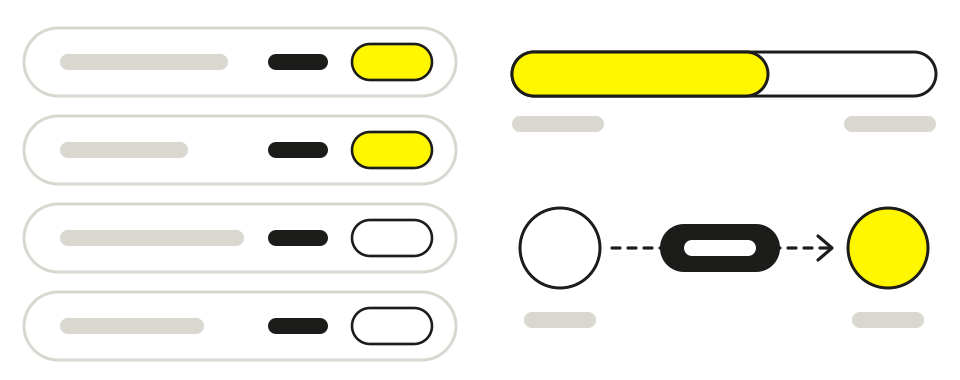
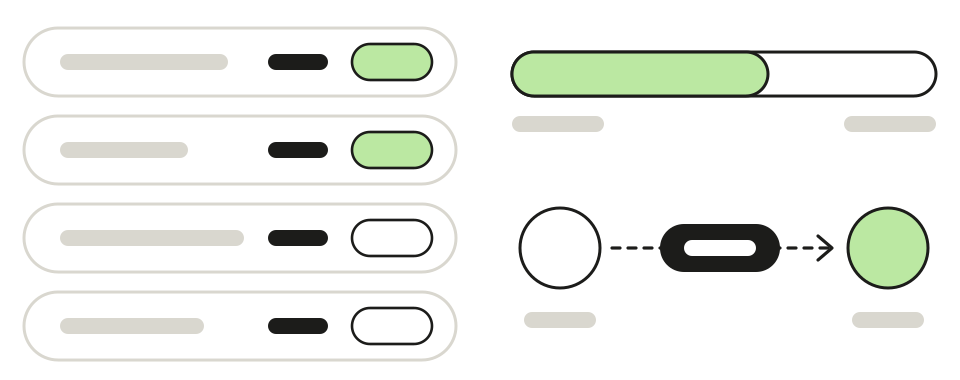
Mails : gabarit unique en pistache (carte d'en-tête commune, vert émeraude, icônes recolorées) (#391)

diff --git a/lib/server/mailTemplate.js b/lib/server/mailTemplate.js
@@ -1,7 +1,7 @@
 // Mise en page commune des mails V31 à V38 (canvas, page « 7 - mails ») : logo, titre, carte ou liste,
 // paragraphes, bouton, pied de page. Tableaux et styles en ligne, Gmail ignore flex et grid.
 
-import { esc, logoBlock } from "@/lib/server/mailShell";
+import { esc, heroBlock } from "@/lib/server/mailShell";
 
 export function initialsOf(name) {
   const words = String(name || "").replace(/\bet\b/gi, " ").trim().split(/\s+/).filter(Boolean);
@@ -12,7 +12,7 @@ export function renderMail({ title, card, rows = [], paras = [], cta, why, link 
   const cardBlock = card
     ? `<table role="presentation" width="100%" cellpadding="0" cellspacing="0" style="margin-bottom:4px;background:#f6f5f1;border-radius:20px;border-collapse:separate"><tr><td style="padding:16px">
 <table role="presentation" cellpadding="0" cellspacing="0"><tr>
-<td width="36" height="36" align="center" valign="middle" style="width:36px;height:36px;border-radius:18px;background:#fffdb8;color:#574e00;font-size:13px;font-weight:700;line-height:36px">${esc(initialsOf(card.name))}</td>
+<td width="36" height="36" align="center" valign="middle" style="width:36px;height:36px;border-radius:18px;background:#e6f7dc;color:#2f5a1a;font-size:13px;font-weight:700;line-height:36px">${esc(initialsOf(card.name))}</td>
 <td style="padding-left:10px"><div style="font-size:15px;font-weight:700">${esc(card.name)}</div><div style="margin-top:2px;font-size:12px;color:#6b6a63">${esc(card.sub)}</div></td>
 </tr></table>
 </td></tr></table>`
@@ -23,7 +23,7 @@ export function renderMail({ title, card, rows = [], paras = [], cta, why, link 
 <table role="presentation" width="100%" cellpadding="0" cellspacing="0">${rows
         .map(
           (r, i) =>
-            `<tr><td style="padding:11px 0;font-size:15px;font-weight:700;${i ? "border-top:1px solid #ecebe6" : ""}">${esc(r.name)}</td><td align="right" style="padding:11px 0;${i ? "border-top:1px solid #ecebe6" : ""}"><span style="display:inline-block;padding:4px 11px;border-radius:999px;background:${r.ok ? "#dff3e1" : "#efeeea"};color:${r.ok ? "#1f6b30" : "#4d4c46"};font-size:12px;font-weight:600;white-space:nowrap">${esc(r.status)}</span></td></tr>`,
+            `<tr><td style="padding:11px 0;font-size:15px;font-weight:700;${i ? "border-top:1px solid #ecebe6" : ""}">${esc(r.name)}</td><td align="right" style="padding:11px 0;${i ? "border-top:1px solid #ecebe6" : ""}"><span style="display:inline-block;padding:4px 11px;border-radius:999px;background:${r.ok ? "#d4f1e8" : "#efeeea"};color:${r.ok ? "#0b6a4f" : "#4d4c46"};font-size:12px;font-weight:600;white-space:nowrap">${esc(r.status)}</span></td></tr>`,
         )
         .join("")}</table>
 </td></tr></table>`
@@ -43,8 +43,7 @@ ${link ? `<td align="right" valign="top"><a href="${esc(link.href)}" style="colo
 </td></tr></table>`;
 
   return `<div style="font-family:Arial,Helvetica,sans-serif;color:#1c1c1a;max-width:560px">
-${logoBlock}
-<h1 style="margin:0 0 20px;font-family:Arial,Helvetica,sans-serif;font-weight:700;font-size:26px;line-height:1.15;color:#1c1c1a">${esc(title)}</h1>
+${heroBlock({ title: esc(title) })}
 ${cardBlock}
 ${rowsBlock}
 ${paras.map((p) => `<p style="margin:16px 0 0;font-size:15px;line-height:1.6">${esc(p)}</p>`).join("\n")}

diff --git a/app/api/inviter/route.js b/app/api/inviter/route.js
@@ -6,7 +6,7 @@
 import { createClient } from "@supabase/supabase-js";
 import { publicOrigin } from "@/lib/server/origin";
 import { allowUser } from "@/lib/server/rate";
-import { esc, logoBlock, mailShell } from "@/lib/server/mailShell";
+import { esc, heroBlock, mailShell } from "@/lib/server/mailShell";
 import { sendMail } from "@/lib/server/sendMail";
 import { displayName } from "@/lib/server/names";
 
@@ -60,11 +60,11 @@ export async function POST(req) {
   // Reprend à l'identique la planche V23 du canvas (page « 7 - mails ») : logo, titre, carte,
   // bouton, pied de page — sans le bloc vidéo du mock, en attendant l'export du GIF.
 
-  const titleBlock = `<h1 style="margin:0 0 20px;font-family:Arial,Helvetica,sans-serif;font-weight:700;font-size:26px;line-height:1.15;color:#1c1c1a">${sender ? `${esc(sender)} t'invite à rejoindre Merry.` : "Tu es invité·e à rejoindre Merry."}</h1>`;
+  const titleBlock = `${sender ? `${esc(sender)} t'invite à rejoindre Merry.` : "Tu es invité·e à rejoindre Merry."}`;
 
   const memberCard = `<table role="presentation" width="100%" cellpadding="0" cellspacing="0" style="background:#f6f5f1;border-radius:20px;border-collapse:separate"><tr><td style="padding:16px">
 <table role="presentation" cellpadding="0" cellspacing="0"><tr>
-<td width="36" height="36" align="center" valign="middle" style="width:36px;height:36px;border-radius:18px;background:#fffdb8;color:#574e00;font-size:13px;font-weight:700;line-height:36px">${esc(initials)}</td>
+<td width="36" height="36" align="center" valign="middle" style="width:36px;height:36px;border-radius:18px;background:#e6f7dc;color:#2f5a1a;font-size:13px;font-weight:700;line-height:36px">${esc(initials)}</td>
 <td style="padding-left:10px;font-size:15px;font-weight:700">${esc(couple)}</td>
 </tr></table>
 </td></tr></table>`;
@@ -81,8 +81,7 @@ export async function POST(req) {
 
   const preheader = `${sender ? `${sender} t'invite` : "Tu es invité·e"} à rejoindre l'équipe qui organise le mariage de ${couple} sur Merry.`;
   const bodyHtml = `<div style="font-family:Arial,Helvetica,sans-serif;color:#1c1c1a;max-width:560px">
-${logoBlock}
-${titleBlock}
+${heroBlock({ title: titleBlock })}
 ${memberCard}
 <p style="margin:20px 0 0;font-size:15px;line-height:1.6">${sender ? esc(sender) : "On"} t'invite à rejoindre l'équipe qui organise le mariage de ${esc(couple)} sur Merry. Tu pourras y gérer les invités, le budget, les prestataires et le rétroplanning, et c'est gratuit du début à la fin.</p>
 ${ctaBlock}

diff --git a/app/api/prestataires/notifier-couple/route.js b/app/api/prestataires/notifier-couple/route.js
@@ -7,7 +7,7 @@
 import { createClient } from "@supabase/supabase-js";
 import { publicOrigin } from "@/lib/server/origin";
 import { allowUser } from "@/lib/server/rate";
-import { esc, logoBlock, mailShell } from "@/lib/server/mailShell";
+import { esc, heroBlock, mailShell } from "@/lib/server/mailShell";
 import { sendMail } from "@/lib/server/sendMail";
 import { optedOut } from "@/lib/server/mailOptouts";
 
@@ -78,7 +78,7 @@ export async function POST(req) {
   // Reprend la planche V20 du canvas (page « 7 - mails ») : logo, titre, carte prestataire et aperçu,
   // bouton, bandeau sécurité, pied de page.
 
-  const titleBlock = `<h1 style="margin:0 0 20px;font-family:Arial,Helvetica,sans-serif;font-weight:700;font-size:26px;line-height:1.15;color:#1c1c1a">${esc(vendorName)} ${verb}.</h1>`;
+  const titleBlock = `${esc(vendorName)} ${verb}.`;
 
   const areaPill = area ? `<span style="background:#ebe6fb;color:#4a3d99;border-radius:999px;padding:2px 8px;font-size:11px;font-weight:600">${esc(area)}</span>` : "";
   const subtitle = category || area ? `<div style="margin-top:3px;font-size:12px;line-height:1.6;color:#6b6a63">${category ? `${esc(category)} ` : ""}${areaPill}</div>` : "";
@@ -88,7 +88,7 @@ export async function POST(req) {
 
   const messageBox = `<table role="presentation" width="100%" cellpadding="0" cellspacing="0" style="background:#f6f5f1;border-radius:20px;border-collapse:separate"><tr><td style="padding:16px">
 <table role="presentation" cellpadding="0" cellspacing="0"><tr>
-<td width="36" height="36" align="center" valign="middle" style="width:36px;height:36px;border-radius:18px;background:#fffdb8;color:#574e00;font-size:13px;font-weight:700;line-height:36px">${esc(initials)}</td>
+<td width="36" height="36" align="center" valign="middle" style="width:36px;height:36px;border-radius:18px;background:#e6f7dc;color:#2f5a1a;font-size:13px;font-weight:700;line-height:36px">${esc(initials)}</td>
 <td style="padding-left:10px;font-size:15px;font-weight:700">${esc(vendorName)}${subtitle}</td>
 </tr></table>
 ${excerptBox}
@@ -109,8 +109,7 @@ ${excerptBox}
 
   const preheader = excerpt.slice(0, 140) || `Lis le message de ${vendorName} et réponds directement depuis Merry.`;
   const bodyHtml = `<div style="font-family:Arial,Helvetica,sans-serif;color:#1c1c1a;max-width:560px">
-${logoBlock}
-${titleBlock}
+${heroBlock({ title: titleBlock })}
 ${messageBox}
 ${ctaBlock}
 ${securityBlock}

diff --git a/app/api/nouveau-membre/route.js b/app/api/nouveau-membre/route.js
@@ -8,7 +8,7 @@
 import { createClient } from "@supabase/supabase-js";
 import { publicOrigin } from "@/lib/server/origin";
 import { allowUser } from "@/lib/server/rate";
-import { esc, logoBlock, mailShell } from "@/lib/server/mailShell";
+import { esc, heroBlock, mailShell } from "@/lib/server/mailShell";
 import { sendMail } from "@/lib/server/sendMail";
 import { displayName } from "@/lib/server/names";
 import { optedOut } from "@/lib/server/mailOptouts";
@@ -70,11 +70,11 @@ export async function POST(req) {
   // Reprend à l'identique la planche V26 du canvas (page « 7 - mails ») : logo, titre, carte,
   // bouton, pied de page.
 
-  const titleBlock = `<h1 style="margin:0 0 20px;font-family:Arial,Helvetica,sans-serif;font-weight:700;font-size:26px;line-height:1.15;color:#1c1c1a">${esc(newMemberName)} a rejoint ton mariage.</h1>`;
+  const titleBlock = `${esc(newMemberName)} a rejoint ton mariage.`;
 
   const memberCard = `<table role="presentation" width="100%" cellpadding="0" cellspacing="0" style="background:#f6f5f1;border-radius:20px;border-collapse:separate"><tr><td style="padding:16px">
 <table role="presentation" cellpadding="0" cellspacing="0"><tr>
-<td width="36" height="36" align="center" valign="middle" style="width:36px;height:36px;border-radius:18px;background:#fffdb8;color:#574e00;font-size:13px;font-weight:700;line-height:36px">${esc(initials)}</td>
+<td width="36" height="36" align="center" valign="middle" style="width:36px;height:36px;border-radius:18px;background:#e6f7dc;color:#2f5a1a;font-size:13px;font-weight:700;line-height:36px">${esc(initials)}</td>
 <td style="padding-left:10px;font-size:15px;font-weight:700">${esc(newMemberName)}</td>
 </tr></table>
 </td></tr></table>`;
@@ -92,8 +92,7 @@ export async function POST(req) {
 
   const preheader = `${newMemberName} fait maintenant partie de l'équipe qui organise ton mariage.`;
   const bodyHtml = `<div style="font-family:Arial,Helvetica,sans-serif;color:#1c1c1a;max-width:560px">
-${logoBlock}
-${titleBlock}
+${heroBlock({ title: titleBlock })}
 ${memberCard}
 <p style="margin:20px 0 0;font-size:15px;line-height:1.6">${esc(newMemberName)} fait maintenant partie de l'équipe et peut consulter et modifier ton tableau de bord Merry&nbsp;: invités, budget, prestataires, rétroplanning.</p>
 ${ctaBlock}

diff --git a/app/api/pro/inviter/route.js b/app/api/pro/inviter/route.js
@@ -6,7 +6,7 @@
 import { createClient } from "@supabase/supabase-js";
 import { publicOrigin } from "@/lib/server/origin";
 import { allowUser } from "@/lib/server/rate";
-import { esc, logoBlock, mailShell } from "@/lib/server/mailShell";
+import { esc, heroBlock, mailShell } from "@/lib/server/mailShell";
 import { sendMail } from "@/lib/server/sendMail";
 
 export const runtime = "nodejs";
@@ -61,11 +61,11 @@ export async function POST(req) {
   // Reprend à l'identique la planche V28 du canvas (page « 7 - mails ») : logo, titre, carte,
   // bouton, pied de page — sans le bloc vidéo du mock, en attendant l'export du GIF.
 
-  const titleBlock = `<h1 style="margin:0 0 20px;font-family:Arial,Helvetica,sans-serif;font-weight:700;font-size:26px;line-height:1.15;color:#1c1c1a">Rejoins ${esc(vendorName)} sur Merry.</h1>`;
+  const titleBlock = `Rejoins ${esc(vendorName)} sur Merry.`;
 
   const memberCard = `<table role="presentation" width="100%" cellpadding="0" cellspacing="0" style="background:#f6f5f1;border-radius:20px;border-collapse:separate"><tr><td style="padding:16px">
 <table role="presentation" cellpadding="0" cellspacing="0"><tr>
-<td width="36" height="36" align="center" valign="middle" style="width:36px;height:36px;border-radius:18px;background:#fffdb8;color:#574e00;font-size:13px;font-weight:700;line-height:36px">${esc(initials)}</td>
+<td width="36" height="36" align="center" valign="middle" style="width:36px;height:36px;border-radius:18px;background:#e6f7dc;color:#2f5a1a;font-size:13px;font-weight:700;line-height:36px">${esc(initials)}</td>
 <td style="padding-left:10px;font-size:15px;font-weight:700">${esc(vendorName)}</td>
 </tr></table>
 </td></tr></table>`;
@@ -82,8 +82,7 @@ export async function POST(req) {
 
   const preheader = `Tu pourras consulter et répondre aux demandes, gérer la fiche, les disponibilités et les crédits de ${vendorName}.`;
   const bodyHtml = `<div style="font-family:Arial,Helvetica,sans-serif;color:#1c1c1a;max-width:560px">
-${logoBlock}
-${titleBlock}
+${heroBlock({ title: titleBlock })}
 ${memberCard}
 <p style="margin:20px 0 0;font-size:15px;line-height:1.6">Tu pourras consulter et répondre aux demandes, gérer la fiche, les disponibilités et les crédits de ${esc(vendorName)} sur Merry.</p>
 ${ctaBlock}

diff --git a/app/api/prestataires/notifier-vendor/route.js b/app/api/prestataires/notifier-vendor/route.js
@@ -7,7 +7,7 @@
 import { createClient } from "@supabase/supabase-js";
 import { publicOrigin } from "@/lib/server/origin";
 import { allowUser } from "@/lib/server/rate";
-import { esc, logoBlock, mailShell } from "@/lib/server/mailShell";
+import { esc, heroBlock, mailShell } from "@/lib/server/mailShell";
 import { sendMail } from "@/lib/server/sendMail";
 import { displayName } from "@/lib/server/names";
 import { unsubLink } from "@/lib/server/mailOptouts";
@@ -89,10 +89,10 @@ export async function POST(req) {
   // était rognée et « DATE » collé à sa valeur). Reprend à l'identique la planche V21 du canvas
   // (page « 7 - mails ») : logo, titre, carte message + tuiles, questions, bouton, pied de page —
   // seules les icônes SVG des tuiles restent absentes (Outlook desktop ne les rend pas).
-  const titleBlock = `<h1 style="margin:0 0 20px;font-family:Arial,Helvetica,sans-serif;font-weight:700;font-size:26px;line-height:1.15;color:#1c1c1a">${esc(couple)} ${esc(verb)}.</h1>`;
+  const titleBlock = `${esc(couple)} ${esc(verb)}.`;
 
   const headerBlock = `<table role="presentation" cellpadding="0" cellspacing="0"><tr>
-<td width="36" height="36" align="center" valign="middle" style="width:36px;height:36px;border-radius:18px;background:#fffdb8;color:#574e00;font-size:13px;font-weight:700;line-height:36px">${esc(initials)}</td>
+<td width="36" height="36" align="center" valign="middle" style="width:36px;height:36px;border-radius:18px;background:#e6f7dc;color:#2f5a1a;font-size:13px;font-weight:700;line-height:36px">${esc(initials)}</td>
 <td style="padding-left:10px;font-size:15px;font-weight:700">${esc(couple)}</td>
 </tr></table>`;
 
@@ -150,8 +150,7 @@ ${tilesBlock}
   for (const [to, link] of recipients) {
     const text = [...plainParts, `Répondre sur Merry : ${link}`].join("\n\n");
     const bodyHtml = `<div style="font-family:Arial,Helvetica,sans-serif;color:#1c1c1a;max-width:560px">
-${logoBlock}
-${titleBlock}
+${heroBlock({ title: titleBlock })}
 ${messageBox}
 ${messageParts}
 ${otherDatesBlock}

diff --git a/lib/server/activiteMail.js b/lib/server/activiteMail.js
@@ -2,7 +2,7 @@
 // sur le mariage depuis la veille à 20 h, en trois blocs (Invités, Prestataires, Messages). Tableaux et styles
 // en ligne, Gmail ignore flex et grid ; Arial remplace Alan Sans, absente des clients mail.
 
-import { esc, logoBlock } from "@/lib/server/mailShell";
+import { esc, heroBlock } from "@/lib/server/mailShell";
 import { parisParts } from "@/lib/server/pilotage/schedule";
 
 export const SUBJECT = "Nouvelles activités sur votre mariage";
@@ -125,15 +125,8 @@ export function buildActivite({ activity, firstName, origin, unsub, link }) {
 
   const hello = firstName ? `Bonjour ${esc(firstName)},` : "Bonjour,";
   const body = `<div style="background:#f6f5f1;border-radius:24px;padding:16px;font-family:Arial,Helvetica,sans-serif;color:#1c1c1a;max-width:560px">
-${logoBlock}
+${heroBlock({ title: "Ta journée sur Merry", intro: `${hello} ${esc(SUBJECT)}.` })}
 <table role="presentation" width="100%" cellpadding="0" cellspacing="0" style="background:#ffffff;border-radius:20px;border-collapse:separate"><tr><td style="padding:28px 28px 24px">
-<table role="presentation" cellpadding="0" cellspacing="0"><tr>
-<td valign="middle" style="padding-right:12px"><img src="${esc(origin)}/mail/cloche.png" width="36" height="36" alt="" style="display:block;border:0"></td>
-<td valign="middle" style="font-size:24px;line-height:1.2;font-weight:700;letter-spacing:-0.01em">Ta journée sur Merry</td>
-</tr></table>
-<div style="height:1px;background:#ecebe6;margin:20px 0 24px;line-height:1px;font-size:1px">&nbsp;</div>
-<p style="margin:0 0 12px;font-size:15px;line-height:1.5">${hello}</p>
-<p style="margin:0 0 28px;font-size:15px;line-height:1.5">${esc(SUBJECT)}.</p>
 ${sections.map((s) => section({ ...s, origin })).join("\n")}
 <table role="presentation" width="100%" cellpadding="0" cellspacing="0"><tr><td align="center">
 <a href="${esc(link)}" style="display:inline-block;background:#1c1c1a;color:#ffffff;text-decoration:none;padding:14px 28px;border-radius:999px;font-weight:700;font-size:14px">Aller sur Merry</a>

diff --git a/lib/server/mailShell.js b/lib/server/mailShell.js
@@ -5,13 +5,22 @@
 // rend illisible (texte sombre sur fond sombre). `bg` : couleur de fond du mail (le mail de confirmation du
 // formulaire prend celle du couple) ; `css` : règles de <head>, seulement pour l'écran de téléphone.
 
+import { publicOrigin } from "@/lib/server/origin";
+
 export function esc(s) {
   return String(s).replace(/[&<>"']/g, (c) => ({ "&": "&amp;", "<": "&lt;", ">": "&gt;", '"': "&quot;", "'": "&#39;" })[c]);
 }
 
-export const logoBlock = `<table role="presentation" width="100%" cellpadding="0" cellspacing="0" style="margin-bottom:24px"><tr><td align="center">
-<table role="presentation" cellpadding="0" cellspacing="0" style="background:#fff700;border-radius:999px"><tr><td style="padding:10px 24px;font-size:22px;font-weight:800;letter-spacing:-0.01em;color:#1c1c1a">Merry</td></tr></table>
-</td></tr></table>`;
+// Carte d'en-tête commune à tous les mails (D-248, planches « Gabarit pistache » du canvas) : logo Merry,
+// titre, phrase d'introduction facultative. `title` et `intro` sont du HTML déjà échappé.
+export function heroBlock({ title, intro = "" }) {
+  return `<table role="presentation" width="100%" cellpadding="0" cellspacing="0" style="background:#bfe9a6;border-radius:20px;border-collapse:separate"><tr><td style="padding:32px 28px">
+<img src="${publicOrigin()}/mail/merry.png" width="145" height="30" alt="Merry" style="display:block;border:0;width:145px;height:30px">
+<h1 style="margin:32px 0 0;font-family:Arial,Helvetica,sans-serif;font-weight:700;font-size:32px;line-height:1.08;letter-spacing:-0.01em;color:#1c1c1a">${title}</h1>${intro ? `
+<p style="margin:14px 0 0;font-size:16px;line-height:1.5;color:#1c1c1a">${intro}</p>` : ""}
+</td></tr></table>
+<div style="height:20px;line-height:20px;font-size:1px">&nbsp;</div>`;
+}
 
 export function mailShell({ title, preheader, body, bg = "#ffffff", css = "" }) {
   // Répété pour pousser le vrai contenu hors de la zone d'aperçu que Gmail construit à partir du

diff --git a/lib/server/nouveautesMail.js b/lib/server/nouveautesMail.js
@@ -59,13 +59,13 @@ export function nouveautesMail({ issue, origin, unsub }) {
     `Ne plus recevoir les nouveautés : ${unsub}`,
   ].join("\n\n");
 
-  const hero = `<table role="presentation" width="100%" cellpadding="0" cellspacing="0" style="background:#fff700;border-radius:20px;border-collapse:separate"><tr><td style="padding:32px 28px">
+  const hero = `<table role="presentation" width="100%" cellpadding="0" cellspacing="0" style="background:#bfe9a6;border-radius:20px;border-collapse:separate"><tr><td style="padding:32px 28px">
 <img src="${esc(assets)}/merry.png" width="145" height="30" alt="Merry" style="display:block;border:0;width:145px;height:30px">
 <table role="presentation" cellpadding="0" cellspacing="0" style="margin-top:28px"><tr><td width="42" valign="middle"><img src="${esc(assets)}/etincelle.png" width="30" height="30" alt="" style="display:block;border:0;width:30px;height:30px"></td><td valign="middle" style="font-size:14.5px;font-weight:700;line-height:1.3;color:#1c1c1a">${esc(ACCROCHE)}</td></tr></table>
 <h1 style="margin:18px 0 0;font-family:Arial,Helvetica,sans-serif;font-weight:700;font-size:32px;line-height:1.08;letter-spacing:-0.01em;color:#1c1c1a">${issue.titre.map(esc).join("<br>")}</h1>
 <p style="margin:14px 0 22px;font-size:16px;line-height:1.5;color:#1c1c1a">${esc(issue.promesse)}</p>
 ${ligne({ label: "Avant", labelColor: "#6b6a63", bg: "#ffffff", color: "#6b6a63", weight: 400, text: issue.avant })}
-${ligne({ label: "Après", labelColor: "#fff700", bg: "#1c1c1a", color: "#ffffff", weight: 700, text: issue.apres })}
+${ligne({ label: "Après", labelColor: "#bfe9a6", bg: "#1c1c1a", color: "#ffffff", weight: 700, text: issue.apres })}
 </td></tr></table>`;
 
   const image = `<table role="presentation" width="100%" cellpadding="0" cellspacing="0" style="margin-top:16px;background:#f6f5f1;border-radius:20px;border-collapse:separate"><tr><td style="padding:20px 24px">

diff --git a/lib/server/demandeMail.js b/lib/server/demandeMail.js
@@ -4,7 +4,7 @@
 // a répondu ou saisi, et le lien du pilotage où valider ou refuser.
 
 import { publicOrigin } from "@/lib/server/origin";
-import { esc, mailShell } from "@/lib/server/mailShell";
+import { esc, heroBlock, mailShell } from "@/lib/server/mailShell";
 import { sendMail } from "@/lib/server/sendMail";
 
 export const alertTo = () => process.env.MERRY_NOTIFY_TO || "contact@withmerry.com";
@@ -38,7 +38,7 @@ export function demandeMail({ vendor, claim, origin }) {
     .map(([k, v]) => `<tr><td style="padding:6px 12px 6px 0;font-size:13px;color:#6b6a63;white-space:nowrap" valign="top">${esc(k)}</td><td style="padding:6px 0;font-size:14px;color:#1c1c1a">${esc(v)}</td></tr>`)
     .join("");
   const body = `<div style="font-family:Arial,Helvetica,sans-serif;color:#1c1c1a;max-width:560px">
-<h1 style="margin:0 0 14px;font-size:22px;line-height:1.2">Nouvelle demande d'accès</h1>
+${heroBlock({ title: "Nouvelle demande d'accès" })}
 <table role="presentation" cellpadding="0" cellspacing="0" style="margin-bottom:14px">${rows}</table>
 <p style="margin:0 0 20px;font-size:14px;line-height:1.5">${esc(hint)}</p>
 <a href="${esc(link)}" style="display:inline-block;background:#1c1c1a;color:#ffffff;text-decoration:none;padding:12px 24px;border-radius:999px;font-weight:700;font-size:14px">Valider ou refuser</a>

diff --git a/lib/server/welcomeMail.js b/lib/server/welcomeMail.js
@@ -41,7 +41,7 @@ export function welcomeMail({ greeting, link, assets, team = null }) {
     "À très vite,\nStan, fondateur de Merry",
   ].join("\n\n");
 
-  const hero = `<table role="presentation" width="100%" cellpadding="0" cellspacing="0" style="background:#fff700;border-radius:20px;border-collapse:separate"><tr><td style="padding:32px 28px">
+  const hero = `<table role="presentation" width="100%" cellpadding="0" cellspacing="0" style="background:#bfe9a6;border-radius:20px;border-collapse:separate"><tr><td style="padding:32px 28px">
 <img src="${esc(assets)}/merry.png" width="145" height="30" alt="Merry" style="display:block;border:0;width:145px;height:30px">
 <h1 style="margin:32px 0 0;font-family:Arial,Helvetica,sans-serif;font-weight:700;font-size:32px;line-height:1.08;letter-spacing:-0.01em;color:#1c1c1a">${esc(title)}.</h1>
 <p style="margin:14px 0 0;font-size:16px;line-height:1.5;color:#1c1c1a">${esc(intro)}</p>

diff --git a/lib/server/demandeVendorMails.js b/lib/server/demandeVendorMails.js
@@ -4,7 +4,7 @@
 // recevait rien tant qu'il n'était pas validé, ni quand il était refusé.
 
 import { publicOrigin } from "@/lib/server/origin";
-import { esc, logoBlock, mailShell } from "@/lib/server/mailShell";
+import { esc, heroBlock, mailShell } from "@/lib/server/mailShell";
 import { sendMail } from "@/lib/server/sendMail";
 
 const CONTACT = "bonjour@withmerry.com";
@@ -13,9 +13,7 @@ const footer = `<p style="margin:24px 0 0;font-size:12px;line-height:1.5;color:#
 
 function layout({ title, intro, extra = "", subject, preheader }) {
   const body = `<div style="font-family:Arial,Helvetica,sans-serif;color:#1c1c1a;max-width:560px">
-${logoBlock}
-<h1 style="margin:0 0 14px;font-size:24px;line-height:1.2;text-align:center">${esc(title)}</h1>
-<p style="margin:0;font-size:15px;line-height:1.6;text-align:center">${esc(intro)}</p>
+${heroBlock({ title: esc(title), intro: esc(intro) })}
 ${extra}
 ${footer}
 </div>`;
